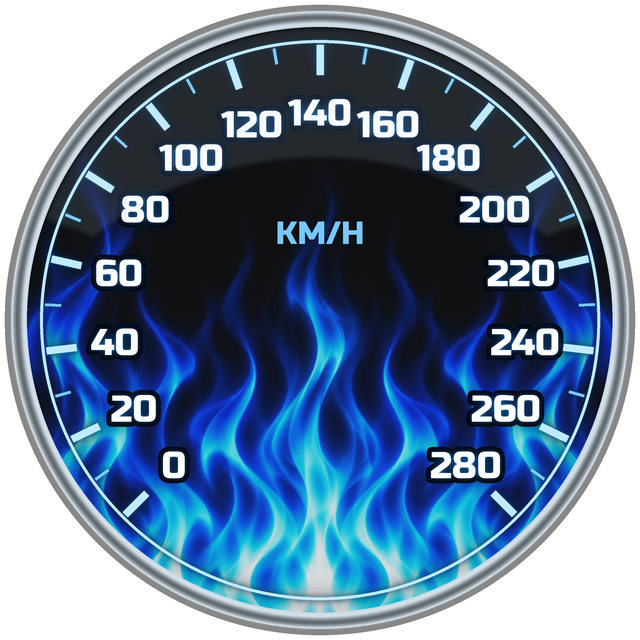
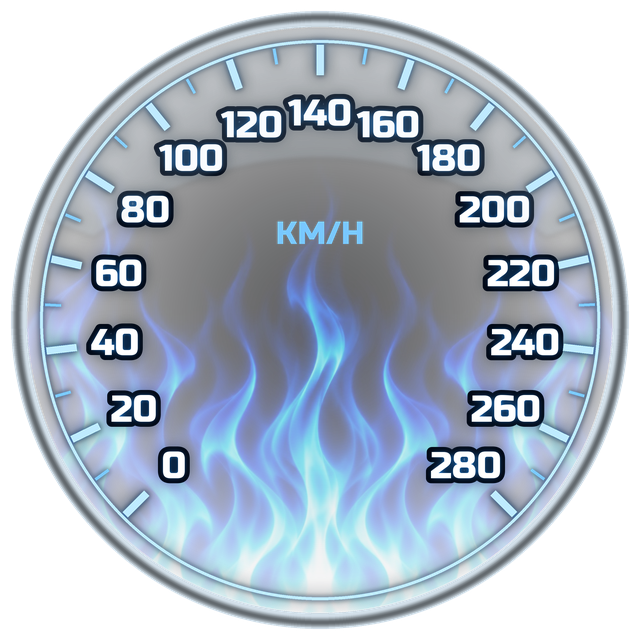
Dials: see-through faces (62% solid in the middle, 20% at the sides)
Claude-Session: https://claude.ai/code/session_01KGiRA1rg8KY8QPAVLBfUgz

diff --git a/tools/make_gauges.py b/tools/make_gauges.py
@@ -17,6 +17,7 @@ AMBER_HI = (255, 214, 110)
 def ang(f): return math.radians(225 - 270 * f)
 def pt(c, r, a): return (c + r * math.cos(a), c - r * math.sin(a))
 
+FACE_MID, FACE_SIDE = 0.62, 0.20   # how solid the dial face is in the middle and at the sides
 FLAME = os.path.join(ROOT, "unity_assets", "gen_src", "dial_flame.jpg")   # blue flames on black, square
 
 def face(size, majors, minor_per, label, numsize, unit, red_from=None):
@@ -25,7 +26,6 @@ def face(size, majors, minor_per, label, numsize, unit, red_from=None):
     n = size * SS; c = n / 2; R = n / 2
     im = Image.new("RGBA", (n, n), (0, 0, 0, 0))
     d = ImageDraw.Draw(im)
-    d.ellipse([c - R * 0.985, c - R * 0.985, c + R * 0.985, c + R * 0.985], fill=(0, 0, 0, 120))
     for i in range(50):          # slim polished chrome bezel with a cold blue tint
         t = i / 49
         r = R * (0.965 - 0.045 * t)
@@ -36,9 +36,21 @@ def face(size, majors, minor_per, label, numsize, unit, red_from=None):
     fl = Image.open(FLAME).convert("RGB").resize((int(2 * r0), int(2 * r0)), Image.LANCZOS)
     base = Image.new("RGB", fl.size, (4, 8, 20))
     fl = Image.blend(base, fl, 0.85)
-    mask = Image.new("L", fl.size, 0)
-    ImageDraw.Draw(mask).ellipse([0, 0, fl.size[0] - 1, fl.size[1] - 1], fill=238)
-    im.paste(fl, (int(c - r0), int(c - r0)), mask)
+    # see-through face: about 60% solid in the middle, fading to 20% solid (80% see-through) at the sides,
+    # so the street shows through the dial and it sits in the game picture
+    import numpy as np
+    w = fl.size[0]
+    yy, xx = np.mgrid[0:w, 0:w]
+    rr = np.hypot(xx - w / 2, yy - w / 2) / (w / 2)
+    al = np.where(rr <= 1, 255 * (FACE_MID + (FACE_SIDE - FACE_MID) * np.clip(rr, 0, 1) ** 1.6), 0).astype("uint8")
+    mask = Image.fromarray(al, "L")
+    hole = Image.new("L", (n, n), 255)
+    ImageDraw.Draw(hole).ellipse([c - r0, c - r0, c + r0, c + r0], fill=0)
+    im.putalpha(Image.composite(im.getchannel("A"), Image.new("L", (n, n), 0), hole))   # clear the bezel disc inside
+    lay = Image.new("RGBA", (n, n), (0, 0, 0, 0))
+    fla = fl.convert("RGBA"); fla.putalpha(mask)
+    lay.paste(fla, (int(c - r0), int(c - r0)))
+    im = Image.alpha_composite(im, lay)
     d = ImageDraw.Draw(im)
     ICE = (190, 235, 255); BLUE = (40, 150, 255)
     glow = Image.new("RGBA", (n, n), (0, 0, 0, 0)); gd = ImageDraw.Draw(glow)
